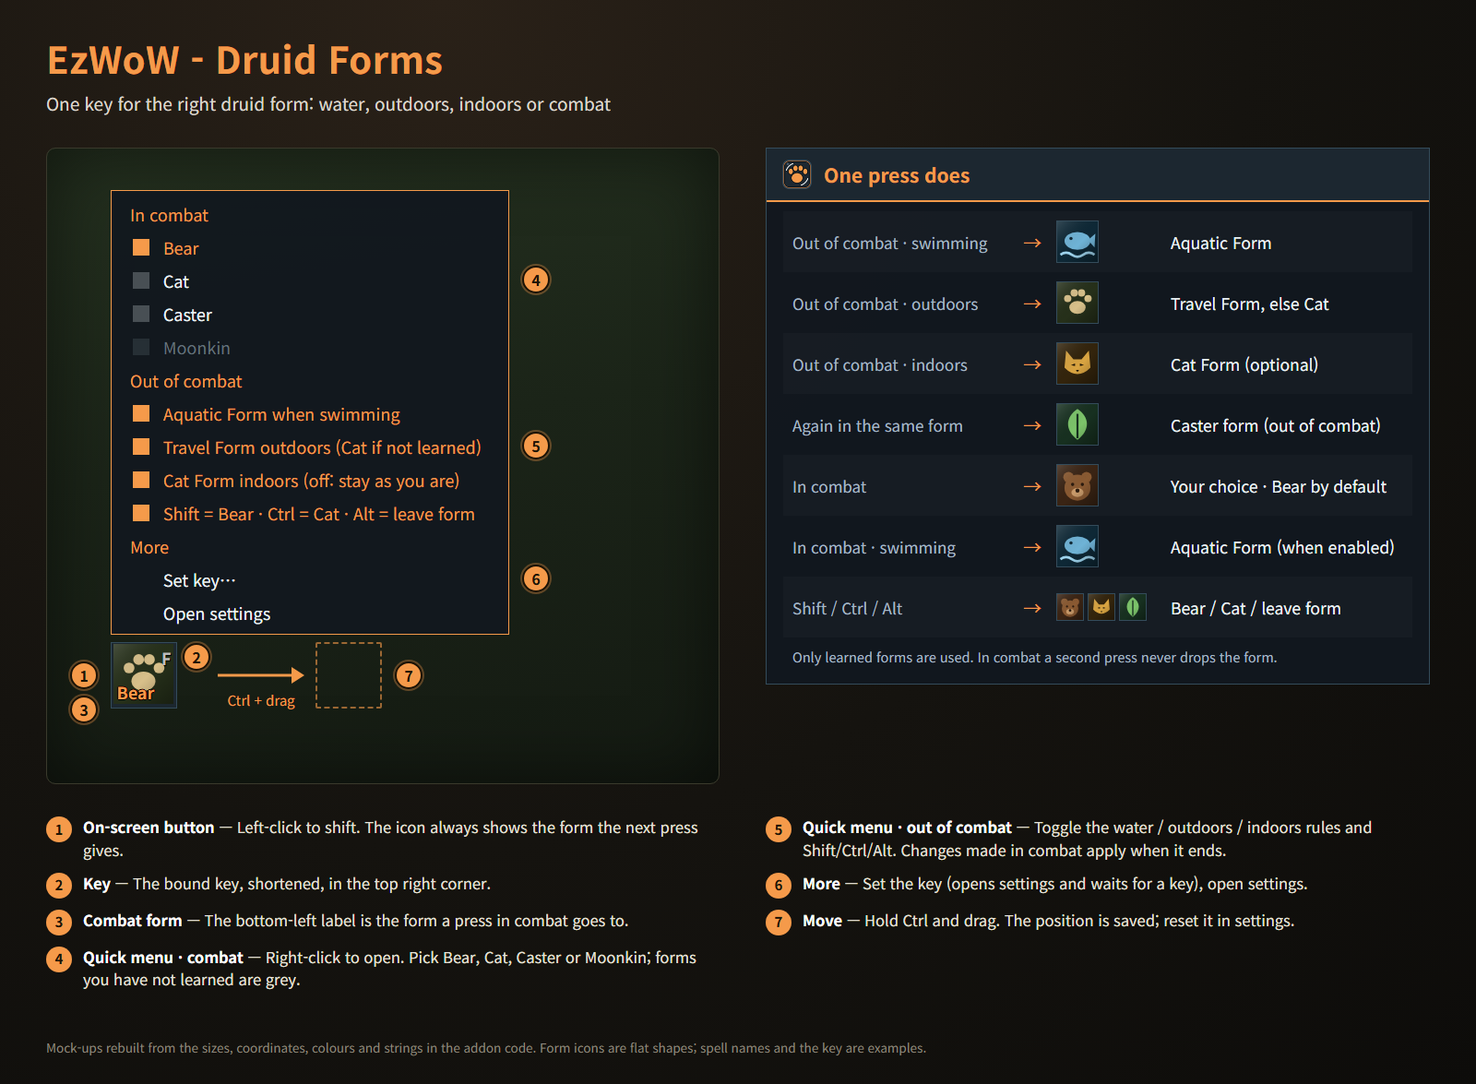
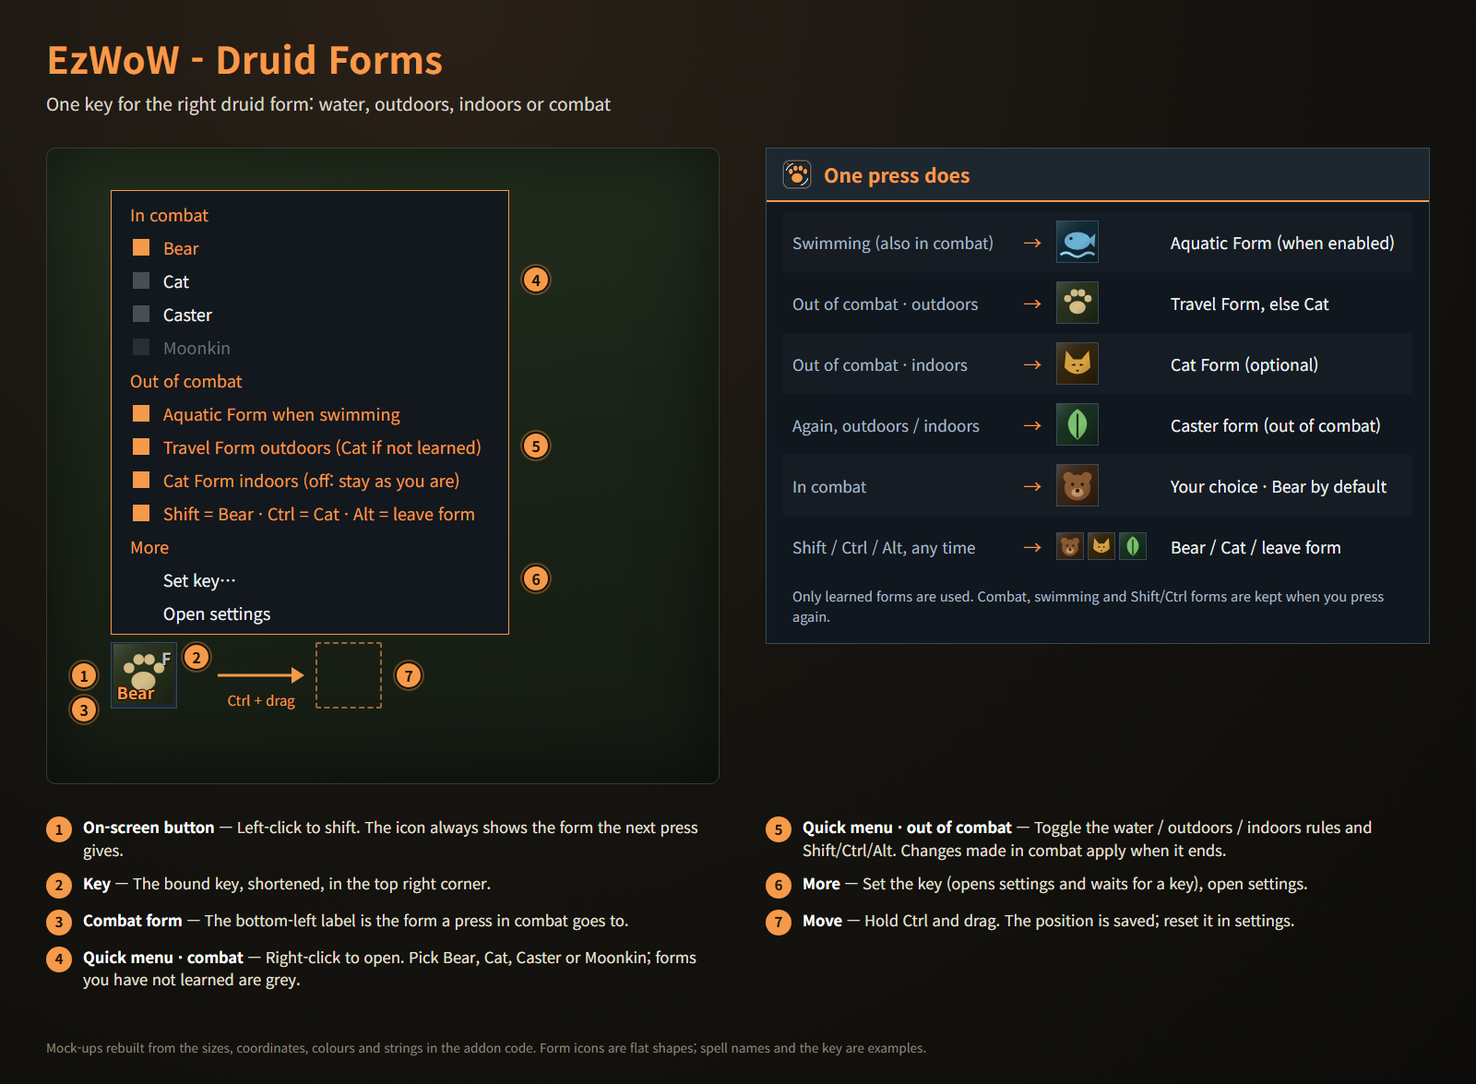
Update README, CurseForge description and example images

diff --git a/scripts/make_readme_images.py b/scripts/make_readme_images.py
@@ -52,44 +52,39 @@ KEY = "F"
 
 def build_macro(f, db):
     """Same lines as ns.BuildMacro() in Modules/Forms.lua."""
-    lines = []
+    # one /cast line, first true case wins; "!" never leaves a form you are already in
+    lines, clauses = [], []
+
+    def clause(cond, name):
+        clauses.append(f"{cond} {name}")
     if db["useModifiers"]:
         lines += ["/cancelform [mod:alt]", "/stopmacro [mod:alt]"]
-        guard, cast = [], []
         if "bear" in f:
-            guard.append(f"[mod:shift,form:{f['bear'][0]}]")
-            cast.append(f"[mod:shift] {f['bear'][1]}")
+            clause("[mod:shift]", "!" + f["bear"][1])
         if "cat" in f:
-            guard.append(f"[mod:ctrl,form:{f['cat'][0]}]")
-            cast.append(f"[mod:ctrl] {f['cat'][1]}")
-        if guard:
-            lines.append("/stopmacro " + "".join(guard))
-        if cast:
-            lines.append("/cast " + "; ".join(cast))
-        lines.append("/stopmacro [mod:shift][mod:ctrl]")
-    if db["useAquatic"] and "aquatic" in f:
-        lines += [f"/stopmacro [combat,swimming,form:{f['aquatic'][0]}]",
-                  f"/cast [combat,swimming] {f['aquatic'][1]}", "/stopmacro [combat,swimming]"]
+            clause("[mod:ctrl]", "!" + f["cat"][1])
     kind = db["combatForm"]
     if kind != "caster" and kind not in f:
         kind = "bear" if "bear" in f else ("cat" if "cat" in f else "caster")
-    if kind == "caster":
-        lines.append("/cancelform [combat]")
-    else:
-        lines += [f"/stopmacro [combat,form:{f[kind][0]}]", f"/cast [combat] {f[kind][1]}"]
-    lines.append("/stopmacro [combat]")
     outdoor = ("travel" if db["useTravel"] and "travel" in f else None) or ("cat" if "cat" in f else None) or ("bear" if "bear" in f else None)
     indoor = (("cat" if "cat" in f else None) or ("bear" if "bear" in f else None)) if db["indoorCat"] else None
     water = ("aquatic" if db["useAquatic"] and "aquatic" in f else None) or outdoor
-    cast = []
-    if water:
-        cast.append(f"[swimming] {f[water][1]}")
+    swim = db["useAquatic"] and "aquatic" in f
+    if swim:
+        clause("[swimming]", "!" + f["aquatic"][1])
+    if kind == "caster":
+        cond = "[combat" + (",nomod" if db["useModifiers"] else "") + (",noswimming" if swim else "") + "]"
+        lines += ["/cancelform " + cond, "/stopmacro " + cond]
+    else:
+        clause("[combat]", "!" + f[kind][1])
+    if water and not swim:
+        clause("[swimming]", f[water][1])
     if outdoor:
-        cast.append(f"[outdoors] {f[outdoor][1]}")
+        clause("[outdoors]", f[outdoor][1])
     if indoor:
-        cast.append(f"[indoors] {f[indoor][1]}")
-    if cast:
-        lines.append("/cast " + "; ".join(cast))
+        clause("[indoors]", f[indoor][1])
+    if clauses:
+        lines.append("/cast " + "; ".join(clauses))
     return lines
 
 
@@ -116,15 +111,14 @@ TEXT = {
         "badge": "설정창", "langLabel": "한국어",
         "sitTitle": "한 번 누르면",
         "sitRows": [
-            ("전투 밖 · 물속", "aquatic", "수중 동물 변신"),
+            ("물속 (전투 중에도)", "aquatic", "수중 동물 변신 (켰을 때)"),
             ("전투 밖 · 야외", "travel", "여행 변신 (없으면 표범)"),
             ("전투 밖 · 실내", "cat", "표범 변신 (끌 수 있음)"),
-            ("같은 변신에서 다시", "caster", "원래 모습 (전투 밖)"),
+            ("야외·실내에서 다시", "caster", "원래 모습 (전투 밖)"),
             ("전투 중", "bear", "고른 변신 · 기본 곰"),
-            ("전투 중 · 물속", "aquatic", "수중 동물 변신 (켰을 때)"),
-            ("Shift / Ctrl / Alt", "mods", "곰 / 표범 / 변신 풀기"),
+            ("Shift / Ctrl / Alt (언제나)", "mods", "곰 / 표범 / 변신 풀기"),
         ],
-        "sitFoot": "배운 변신만 씁니다. 전투 중에는 같은 변신을 다시 눌러도 풀리지 않습니다.",
+        "sitFoot": "배운 변신만 씁니다. 전투 중·물속·Shift/Ctrl 변신은 다시 눌러도 풀리지 않습니다.",
         "drag": "Ctrl + 드래그",
         "notes": [
             ("화면 버튼", "왼쪽 클릭으로 변신합니다. 아이콘은 지금 누르면 될 변신으로 계속 바뀝니다."),
@@ -140,7 +134,7 @@ TEXT = {
             ("전투 중 누르면", "곰 · 표범 · 원래 모습 · 달빛야수. 이미 그 변신이면 풀리지 않습니다."),
             ("전투 밖에서 누르면", "물속 → 수중(전투 중 물속도), 야외 → 여행, 실내 → 표범, 보조키 Shift = 곰 · Ctrl = 표범 · Alt = 풀기."),
             ("화면 버튼", "표시 여부, 크기 24~64, 위치 초기화. Ctrl + 드래그로 이동."),
-            ("지금 쓰는 매크로", "설정대로 만든 매크로를 보여 줍니다. 길어지면 창이 늘어납니다."),
+            ("지금 쓰는 매크로", "설정대로 만든 매크로를 보여 줍니다. 길면 자동으로 나눠 실행하고, 창도 함께 늘어납니다."),
             ("언어 · 후원", "자동 + 8개 언어, 후원 링크 복사."),
         ],
         "note": "애드온 코드의 크기·좌표·색상·문구로 재현한 예시 화면입니다. 변신 아이콘은 단순한 도형이고, 주문 이름·단축키는 예시입니다.",
@@ -151,15 +145,14 @@ TEXT = {
         "badge": "Settings", "langLabel": "English",
         "sitTitle": "One press does",
         "sitRows": [
-            ("Out of combat · swimming", "aquatic", "Aquatic Form"),
+            ("Swimming (also in combat)", "aquatic", "Aquatic Form (when enabled)"),
             ("Out of combat · outdoors", "travel", "Travel Form, else Cat"),
             ("Out of combat · indoors", "cat", "Cat Form (optional)"),
-            ("Again in the same form", "caster", "Caster form (out of combat)"),
+            ("Again, outdoors / indoors", "caster", "Caster form (out of combat)"),
             ("In combat", "bear", "Your choice · Bear by default"),
-            ("In combat · swimming", "aquatic", "Aquatic Form (when enabled)"),
-            ("Shift / Ctrl / Alt", "mods", "Bear / Cat / leave form"),
+            ("Shift / Ctrl / Alt, any time", "mods", "Bear / Cat / leave form"),
         ],
-        "sitFoot": "Only learned forms are used. In combat a second press never drops the form.",
+        "sitFoot": "Only learned forms are used. Combat, swimming and Shift/Ctrl forms are kept when you press again.",
         "drag": "Ctrl + drag",
         "notes": [
             ("On-screen button", "Left-click to shift. The icon always shows the form the next press gives."),
@@ -175,7 +168,7 @@ TEXT = {
             ("In combat", "Bear · Cat · Caster · Moonkin. Already in that form: it stays."),
             ("Out of combat", "Water → Aquatic (also in combat), outdoors → Travel, indoors → Cat, Shift = Bear · Ctrl = Cat · Alt = leave form."),
             ("On-screen button", "Show or hide, size 24–64, reset position. Ctrl + drag moves it."),
-            ("Current macro", "The macro built from your settings. The window grows with it."),
+            ("Current macro", "The macro built from your settings. A long one is split up and run in parts automatically; the window grows with it."),
             ("Language · donate", "Automatic + 8 languages, copy the donate link."),
         ],
         "note": "Mock-ups rebuilt from the sizes, coordinates, colours and strings in the addon code. Form icons are flat shapes; spell names and the key are examples.",
@@ -439,7 +432,7 @@ def settings_page(lang, L, icon_uri, version):
     section("secMacro", 516)
     macro = "\n".join(build_macro(f, DB))
     p.append(f'<div id="macro" class="abs" style="{g.box(22, 542, 396)}font-size:{g(10)};color:{C["textMuted"]};'
-             f'line-height:1.25;white-space:pre-wrap;word-break:break-all">{esc(macro)}</div>')
+             f'line-height:1.25;white-space:pre-wrap;overflow-wrap:anywhere">{esc(macro)}</div>')
     # bottom row: anchored BOTTOMLEFT 20,32 / BOTTOMRIGHT -20,32 / foot BOTTOM 0,12 -> placed by the script
     lang_label = f'{L["language"]}: {t["langLabel"]} ▼'
     p.append(f'<div id="langBtn" class="wbtn" style="left:{g(20)};width:{g(197)};height:{g(28)};font-size:{g(12)}">{esc(lang_label)}</div>')
@@ -486,13 +479,18 @@ def find_chrome():
 def render(chrome, html_path, png_path, profile):
     url = Path(html_path).resolve().as_uri()
     base = [chrome, "--headless=new", "--disable-gpu", "--hide-scrollbars", f"--user-data-dir={profile}"]
-    dom = subprocess.run(base + ["--window-size=1600,2000", "--dump-dom", url], capture_output=True, text=True,
-                         encoding="utf-8", errors="replace", timeout=120).stdout
+    # output goes to files, not pipes: a helper process Chrome leaves behind can keep a
+    # pipe open and make the call wait forever
+    dom_path = Path(html_path).with_suffix(".dom.txt")
+    with open(dom_path, "wb") as fh:
+        subprocess.run(base + ["--window-size=1600,2000", "--dump-dom", url], stdout=fh,
+                       stderr=subprocess.DEVNULL, timeout=120)
+    dom = dom_path.read_text(encoding="utf-8", errors="replace")
     m = re.search(r'data-h="(\d+)"', dom)
     height = int(m.group(1)) if m else 1400
     mm = re.search(r'data-macro="(\d+)"', dom)
     subprocess.run(base + [f"--window-size=1600,{height}", f"--screenshot={png_path}", url],
-                   capture_output=True, timeout=120)
+                   stdout=subprocess.DEVNULL, stderr=subprocess.DEVNULL, timeout=120)
     return height, (mm.group(1) if mm else None)
 
 

diff --git a/README.md b/README.md
@@ -15,19 +15,19 @@ One key for the right druid form.
 
 | 상황 | 누르면 |
 |---|---|
-| 전투 밖 · 물속 | 수중 동물 변신 |
+| 물속 (전투 중에도) | 수중 동물 변신 ("물속이면 수중 동물 변신"을 켰을 때). 이미 수중 동물이면 그대로 |
 | 전투 밖 · 야외 | 여행 변신 (없으면 표범) |
 | 전투 밖 · 실내 | 표범 변신 (끌 수 있음) |
-| 전투 밖 · 이미 그 변신 | 원래 모습 |
+| 전투 밖 · 야외·실내에서 이미 그 변신 | 원래 모습 |
 | 전투 중 | 고른 변신(곰 / 표범 / 원래 모습 / 달빛야수). 이미 그 변신이면 풀리지 않음 |
-| 전투 중 · 물속 | 수중 동물 변신 ("물속이면 수중 동물 변신"을 켰을 때) |
-| Shift / Ctrl / Alt | 곰 / 표범 / 변신 풀기 |
+| Shift / Ctrl / Alt (언제나) | 곰 / 표범 / 변신 풀기. Shift·Ctrl은 이미 그 변신이면 그대로 유지 |
 
-- **단축키**: 설정 창(`/ezdf`)에서 버튼을 누르고 쓸 키를 누르거나, 게임 단축키 설정의 "애드온" 항목에서 지정합니다. 그 키의 기존 동작이 바뀌거나, Shift/Ctrl + 그 키가 이미 다른 기능에 쓰이고 있으면 대화창에 알려 줍니다(그 조합으로는 곰/표범 변신이 동작하지 않습니다).
-- **화면 버튼**: 왼쪽 클릭으로 변신하고, 아이콘은 지금 누르면 될 변신을 보여 줍니다. 오른쪽 위는 단축키, 왼쪽 아래는 전투 중 변신입니다.
-- **빠른 설정**: 화면 버튼을 오른쪽 클릭하면 전투 중 변신, 물속·야외·실내 규칙, 보조키를 바로 바꿀 수 있습니다. 전투 중에 바꾸면 전투가 끝난 뒤 적용됩니다.
-- **이동**: Ctrl을 누른 채 화면 버튼을 끌어서 옮깁니다. 설정 창에서 숨기기·크기·위치 초기화를 할 수 있습니다.
-- 변신 막대에 있는 **배운 변신만** 쓰므로 레벨에 따라 자동으로 맞춰집니다. 판단은 게임 매크로 조건으로 하므로 전투 중에도 동작하고, 설정 창에서 지금 쓰는 매크로를 볼 수 있습니다.
+- **단축키**: 설정 창(`/ezdf`)에서 버튼을 누르고 쓸 키를 누르거나(Esc 취소, 마우스 휠·가운데·옆 버튼도 가능), 게임 단축키 설정의 "애드온" 항목에서 지정합니다. 그 키의 기존 동작이 바뀌거나, Shift/Ctrl + 그 키가 이미 다른 기능에 쓰이고 있으면 대화창에 알려 줍니다(그 조합으로는 곰/표범 변신이 동작하지 않습니다). 게임 설정의 "키를 누를 때 시전" 여부(누를 때 / 뗄 때)를 그대로 따릅니다.
+- **화면 버튼**: 왼쪽 클릭으로 변신하고, 아이콘은 지금 누르면 될 변신을 보여 줍니다. 오른쪽 위는 단축키, 왼쪽 아래는 전투 중 변신입니다. 마우스를 올리면 단축키·전투 중 변신·규칙을 툴팁으로 보여 줍니다.
+- **빠른 설정**: 화면 버튼을 오른쪽 클릭하면 전투 중 변신, 물속·야외·실내 규칙, 보조키를 바로 바꾸고, 단축키 지정이나 설정 창 열기로 갈 수 있습니다. 배우지 않은 변신은 회색입니다. 전투 중에 바꾸면 전투가 끝난 뒤 적용됩니다.
+- **이동**: Ctrl을 누른 채 화면 버튼을 끌어서 옮깁니다. 설정 창에서 숨기기·크기(24~64)·위치 초기화를 할 수 있습니다.
+- 변신 막대에 있는 **배운 변신만** 쓰므로 레벨에 따라 자동으로 맞춰집니다. 판단은 게임 매크로 조건으로 하므로 전투 중에도 동작하고, 설정 창에서 지금 쓰는 매크로를 볼 수 있습니다. 주문 이름이 길어 매크로가 한 번에 들어가지 않으면 자동으로 나눠 실행합니다.
+- 드루이드가 아닌 캐릭터에서는 아무것도 하지 않습니다. 언어는 자동 + 8개 언어 중에서 고릅니다.
 
 ## English
 
@@ -39,16 +39,28 @@ One key for the right druid form.
 
 | Situation | Press |
 |---|---|
-| Out of combat · swimming | Aquatic Form |
+| Swimming (also in combat) | Aquatic Form (when "Aquatic Form when swimming" is on); already aquatic: it stays |
 | Out of combat · outdoors | Travel Form (Cat if not learned) |
 | Out of combat · indoors | Cat Form (optional) |
-| Out of combat · already in that form | Caster form |
+| Out of combat · outdoors/indoors, already in that form | Caster form |
 | In combat | Your choice (Bear / Cat / Caster / Moonkin); pressing again never drops it |
-| In combat · swimming | Aquatic Form (when "Aquatic Form when swimming" is on) |
-| Shift / Ctrl / Alt | Bear / Cat / leave form |
+| Shift / Ctrl / Alt, any time | Bear / Cat / leave form; Shift and Ctrl keep you in Bear or Cat if you are already in it |
 
-- **Key**: in settings (`/ezdf`) click the key button and press a key, or use the game's Key Bindings ("AddOns"). Chat tells you when the key's old action is replaced, or when Shift/Ctrl + that key is already bound elsewhere (those combinations then won't shift to Bear/Cat).
-- **On-screen button**: left-click to shift; the icon shows what the next press does. Top right: the key. Bottom left: the combat form.
-- **Quick menu**: right-click the button to change the combat form, the water / outdoors / indoors rules and the modifiers. Changes made in combat apply when it ends.
-- **Move**: hold Ctrl and drag the button. Hide it, resize it or reset its position in settings.
-- Only forms on your stance bar are used, so it follows your level. The game's macro conditions make the choice, so it works in combat; settings show the current macro.
+- **Key**: in settings (`/ezdf`) click the key button and press a key (Esc cancels; mouse wheel, middle and side buttons work too), or use the game's Key Bindings ("AddOns"). Chat tells you when the key's old action is replaced, or when Shift/Ctrl + that key is already bound elsewhere (those combinations then won't shift to Bear/Cat). The game's "cast on key down" setting is followed.
+- **On-screen button**: left-click to shift; the icon shows what the next press does. Top right: the key. Bottom left: the combat form. Hover for a tooltip with the key, the combat form and the rules.
+- **Quick menu**: right-click the button to change the combat form, the water / outdoors / indoors rules and the modifiers, or jump to setting the key or opening settings. Forms you have not learned are grey. Changes made in combat apply when it ends.
+- **Move**: hold Ctrl and drag the button. Hide it, resize it (24–64) or reset its position in settings.
+- Only forms on your stance bar are used, so it follows your level. The game's macro conditions make the choice, so it works in combat; settings show the current macro. When long spell names make the macro too long for one button, it is split up and run in parts automatically.
+- Does nothing on characters that are not druids. Language: automatic or one of 8 languages.
+
+---
+
+## Support / 후원
+
+If you find this addon useful, you can support its development.
+
+애드온이 도움이 되셨다면 개발 후원으로 응원해 주세요.
+
+[Buy Me a Coffee ☕](https://buymeacoffee.com/qqhrqqhr2)
+
+<a href="https://buymeacoffee.com/qqhrqqhr2"><img src="docs/images/bmc_qr.png" alt="Buy Me a Coffee 후원 QR 코드" width="220" /></a>

diff --git a/docs/curseforge_description.md b/docs/curseforge_description.md
@@ -1,0 +1,96 @@
+<!--
+CurseForge summary (EN): One key for the right druid form: Aquatic in water, Travel outdoors, Cat indoors and your choice in combat, with an on-screen button.
+CurseForge summary (KO): 단축키 하나로 물속은 수중 동물, 야외는 여행, 실내는 표범, 전투 중에는 고른 변신. 화면 버튼과 빠른 설정 포함.
+-->
+
+# EzWoW - Druid Forms
+
+**English** · [한국어](#한국어)
+
+One key for the right druid form in WoW Forever: Aquatic Form in water, Travel Form outdoors, Cat Form indoors and the form of your choice in combat. Only the forms you have learned are used, so it follows your level. An on-screen button shows what the next press does.
+
+![On-screen button and quick menu](https://raw.githubusercontent.com/qqhrqqhr2/EzWoW-DruidForms/master/docs/images/ui_en.png)
+
+![Settings window](https://raw.githubusercontent.com/qqhrqqhr2/EzWoW-DruidForms/master/docs/images/settings_en.png)
+
+*Mock-ups rebuilt from the sizes, coordinates, colours and strings in the addon code. Form icons are flat shapes; spell names and the key are examples.*
+
+## Features
+
+### One key
+- **Swimming** (also in combat): Aquatic Form, if enabled. Already aquatic: it stays.
+- **Out of combat, outdoors**: Travel Form (Cat Form if not learned yet).
+- **Out of combat, indoors**: Cat Form (can be turned off to stay as you are).
+- **Press again outdoors or indoors**: back to caster form.
+- **In combat**: Bear, Cat, Caster or Moonkin, your choice (Bear by default). Pressing again never drops the form.
+- **Modifiers** (any time, can be turned off): Shift = Bear, Ctrl = Cat, Alt = leave form. Shift and Ctrl keep you in the form if you are already in it.
+- The choice is made by the game's macro conditions, so it works in combat. The settings show the current macro; a macro too long for one button (long spell names) is split up and run in parts automatically.
+
+### Key binding
+- Click the key button in the settings and press a key: keyboard keys, mouse wheel, middle and side mouse buttons. Esc cancels.
+- Or bind it in the game's Key Bindings under "AddOns".
+- Chat tells you when the key's old action is replaced, and when Shift/Ctrl + that key is already bound to something else (Bear/Cat then won't work with it).
+- Follows the game's "cast on key down" setting.
+
+### On-screen button
+- Left-click to shift. The icon shows the form the next press gives.
+- The key in the top right corner, the combat form in the bottom left.
+- Hover for a tooltip with the key, the combat form and the rules.
+- Ctrl + drag to move. Show or hide, size 24–64 and reset position in the settings.
+
+### Quick menu
+- Right-click the on-screen button: pick the combat form, toggle the water / outdoors / indoors rules and the modifiers, set the key or open the settings.
+- Forms you have not learned are grey. Changes made in combat apply as soon as it ends.
+
+## Commands
+- `/ezdf` or `/드루이드` — open the settings
+
+Druids only; nothing happens on other classes.
+
+Languages: English, 한국어, Deutsch, Français, Español, Русский, 简体中文, 繁體中文.
+
+---
+
+## 한국어
+
+WoW Forever용 드루이드 변신 애드온입니다. 단축키 하나로 물속에서는 수중 동물 변신, 야외에서는 여행 변신, 실내에서는 표범 변신, 전투 중에는 고른 변신을 합니다. 배운 변신만 쓰므로 레벨에 따라 자동으로 맞춰지고, 화면 버튼이 지금 누르면 될 변신을 보여 줍니다.
+
+![화면 버튼과 빠른 설정](https://raw.githubusercontent.com/qqhrqqhr2/EzWoW-DruidForms/master/docs/images/ui_ko.png)
+
+![설정창](https://raw.githubusercontent.com/qqhrqqhr2/EzWoW-DruidForms/master/docs/images/settings_ko.png)
+
+*애드온 코드의 크기·좌표·색상·문구로 재현한 예시 화면입니다. 변신 아이콘은 단순한 도형이고, 주문 이름·단축키는 예시입니다.*
+
+## 기능
+
+### 단축키 하나로
+- **물속** (전투 중에도): 수중 동물 변신(켰을 때). 이미 수중 동물이면 그대로.
+- **전투 밖 · 야외**: 여행 변신(아직 없으면 표범).
+- **전투 밖 · 실내**: 표범 변신(끄면 실내에서는 그대로).
+- **야외·실내에서 다시 누르면**: 원래 모습.
+- **전투 중**: 곰 · 표범 · 원래 모습 · 달빛야수 중 고른 변신(기본 곰). 다시 눌러도 풀리지 않습니다.
+- **보조키** (언제나, 끌 수 있음): Shift = 곰, Ctrl = 표범, Alt = 변신 풀기. Shift·Ctrl은 이미 그 변신이면 그대로 유지합니다.
+- 판단은 게임 매크로 조건으로 하므로 전투 중에도 동작합니다. 설정 창에서 지금 쓰는 매크로를 볼 수 있고, 주문 이름이 길어 매크로가 한 번에 들어가지 않으면 자동으로 나눠 실행합니다.
+
+### 단축키 지정
+- 설정 창에서 단축키 버튼을 누르고 쓸 키를 누릅니다. 키보드, 마우스 휠, 가운데·옆 버튼 모두 가능하고 Esc는 취소입니다.
+- 게임 단축키 설정의 "애드온" 항목에서도 지정할 수 있습니다.
+- 그 키의 기존 동작이 바뀌거나, Shift/Ctrl + 그 키가 이미 다른 기능에 쓰이고 있으면 대화창에 알려 줍니다(그 조합으로는 곰/표범 변신이 동작하지 않습니다).
+- 게임 설정의 "키를 누를 때 시전" 여부를 그대로 따릅니다.
+
+### 화면 버튼
+- 왼쪽 클릭으로 변신합니다. 아이콘은 지금 누르면 될 변신으로 바뀝니다.
+- 오른쪽 위에 단축키, 왼쪽 아래에 전투 중 변신을 표시합니다.
+- 마우스를 올리면 단축키·전투 중 변신·규칙을 툴팁으로 보여 줍니다.
+- Ctrl + 드래그로 이동. 설정 창에서 표시 여부, 크기(24~64), 위치 초기화.
+
+### 빠른 설정
+- 화면 버튼을 오른쪽 클릭하면 전투 중 변신, 물속·야외·실내 규칙, 보조키를 바로 바꾸고 단축키 지정이나 설정 창 열기로 갈 수 있습니다.
+- 배우지 않은 변신은 회색입니다. 전투 중에 바꾸면 전투가 끝나는 대로 적용됩니다.
+
+## 명령어
+- `/ezdf` 또는 `/드루이드` — 설정창 열기
+
+드루이드 전용입니다. 다른 직업에서는 아무것도 하지 않습니다.
+
+지원 언어: English, 한국어, Deutsch, Français, Español, Русский, 简体中文, 繁體中文.
